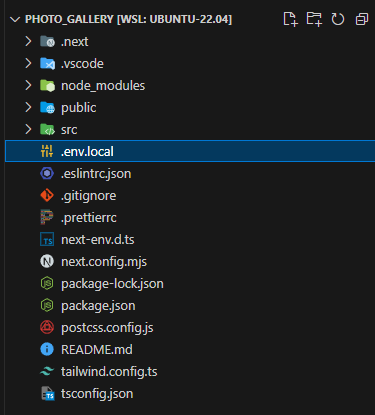
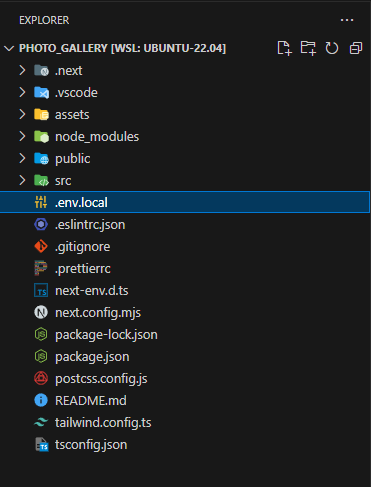
update readme

Changed region(s): [[0.0, 0.0867, 1.0, 0.9831], [0.7412, 0.0289, 1.0, 0.1157], [0.0296, 0.0289, 0.6226, 0.0578]]

diff --git a/README.md b/README.md
@@ -12,7 +12,9 @@ This is a [Next.js](https://nextjs.org/) project bootstrapped with [`create-next
 
 1. You should be provided with API credentials or go to your [Unsplash projects](https://unsplash.com/oauth/applications) and locate your new credentials
 
-1. Create a new file called `.env.local` at project directory level
+1. Create a new file called `.env.local` at project directory level:
+
+    ![alt text](https://github.com/Heath-Lester/photo-gallery/blob/main/assets/images/env.local.png)
 
 1. Create variable called `UNSPLASH_ACCESS_KEY`
 
